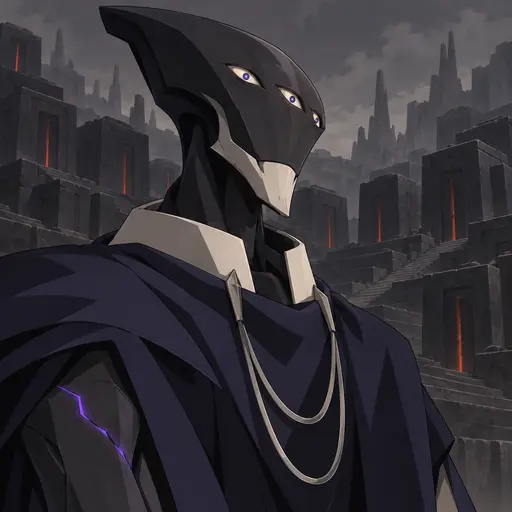
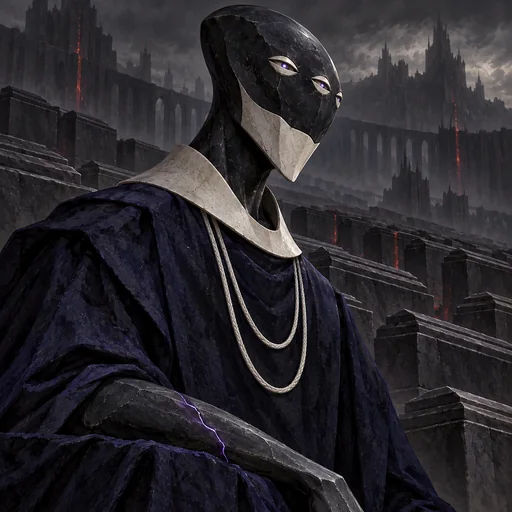
Complete Teras's Blasfêmia art kit

diff --git a/src/character-art-registry.js b/src/character-art-registry.js
@@ -85,7 +85,14 @@ export const characterArtRegistry = {
     }
   },
   "teras": {
-    "portrait": "/art/characters/teras/anime-first-completion-20261028/portrait.webp"
+    "portrait": "/art/characters/teras/anime-first-completion-20261028/portrait.webp",
+    "passive": "/art/characters/teras/anime-first-completion-20261028/passive.webp",
+    "abilities": {
+      "impulso": "/art/characters/teras/anime-first-completion-20261028/skill-impulso.webp",
+      "tecnica": "/art/characters/teras/anime-first-completion-20261028/skill-tecnica.webp",
+      "voto": "/art/characters/teras/anime-first-completion-20261028/skill-voto.webp",
+      "despertar": "/art/characters/teras/anime-first-completion-20261028/skill-despertar.webp"
+    }
   }
 };
 
